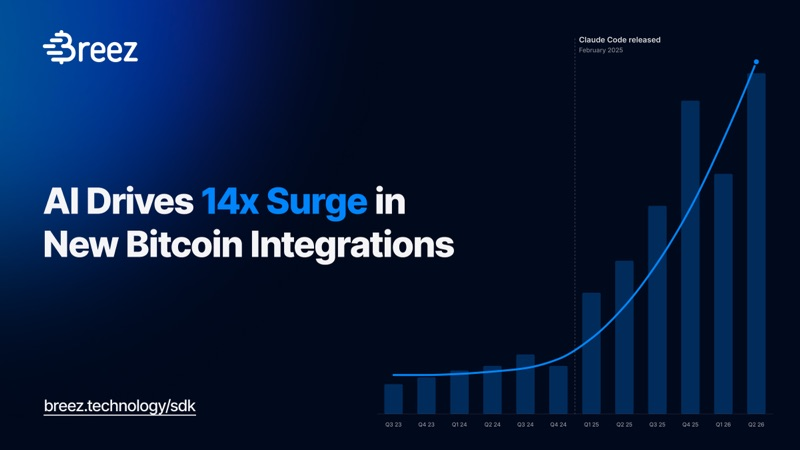
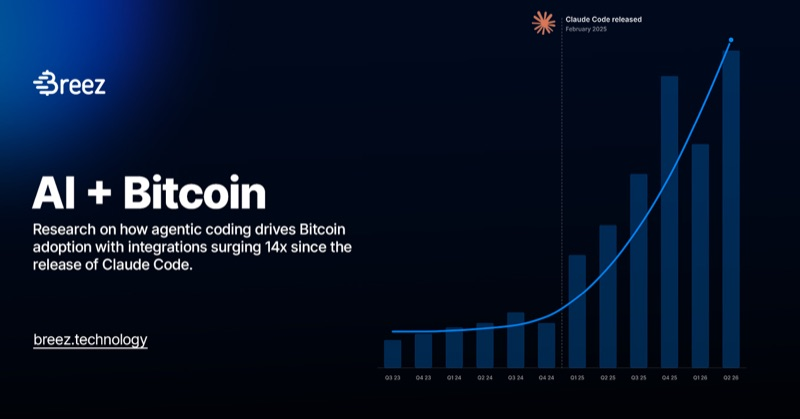
Research: launch switch, meta description, new thumbnail

diff --git a/src/views/pages/report/research.html b/src/views/pages/report/research.html
@@ -37,12 +37,12 @@
             "url": "https://breez.technology"
       },
       "hasPart": [
-            {
+<% if (researchLive) { %>            {
                   "@type": "Article",
                   "headline": "AI Drives 14x Surge in New Bitcoin Integrations",
                   "url": "https://breez.technology/report/agentic-coding/"
             },
-            {
+<% } %>            {
                   "@type": "Article",
                   "headline": "Bitcoin Payments: From Digital Gold to Everyday Currency",
                   "url": "https://breez.technology/report/bitcoin-payments/"
@@ -115,6 +115,11 @@
                         <li class="header-links my-2 my-lg-0">
                             <a href="/vision" class="text-decoration-none">Vision</a>
                         </li>
+                        <% if (researchLive) { %>
+                        <li class="header-links my-2 my-lg-0">
+                            <a href="/report" class="text-decoration-none">Research</a>
+                        </li>
+                        <% } %>
                         <li class="header-links my-2 my-lg-0">
                             <a href="https://blog.breez.technology" target="_blank" rel="noopener" class="text-decoration-none">Blog</a>
                         </li>
@@ -147,9 +152,10 @@
                 </div>
 
                 <div class="col-12 col-lg-7 d-flex align-items-start justify-content-lg-end">
+                    <% if (researchLive) { %>
                     <!-- The chart's empty upper left carries the card text, so the card stays square. -->
                     <a href="/report/agentic-coding" class="research-feature text-decoration-none" data-aos="fade-up" data-aos-duration="900">
-                        <img src="../../../assets/images/research/agentic-coding-chart.png" width="2000" height="2000" class="research-feature-img"
+                        <img src="../../../assets/images/research/agentic-coding-chart.png" width="2000" height="1900" class="research-feature-img"
                             alt="Bar chart of new bitcoin integration requests to Breez by quarter, flat through 2023 and 2024, rising sharply from the release of Claude Code in February 2025.">
                         <div class="research-feature-body">
                             <div class="research-tags">
@@ -159,12 +165,27 @@
                             <span class="research-link">Read more <img src="../../../assets/icons/arrow-right-icon.svg" alt="" aria-hidden="true"></span>
                         </div>
                     </a>
+                    <% } else { %>
+                    <!-- Before launch the featured card is the Bitcoin Payments report. -->
+                    <a href="/report/bitcoin-payments" class="research-feature research-feature--stacked text-decoration-none" data-aos="fade-up" data-aos-duration="900">
+                        <img src="../../../assets/images/open-graph-report.png" width="2480" height="1395" class="research-feature-img"
+                            alt="Bitcoin Payments: From Digital Gold to Everyday Currency, a report by Breez and 1A1z">
+                        <div class="research-feature-body">
+                            <div class="research-tags">
+                                <span class="research-date">February 2024</span>
+                            </div>
+                            <h2 class="research-feature-title">Bitcoin Payments: From Digital Gold to Everyday Currency</h2>
+                            <span class="research-link">Read more <img src="../../../assets/icons/arrow-right-icon.svg" alt="" aria-hidden="true"></span>
+                        </div>
+                    </a>
+                    <% } %>
                 </div>
             </div>
 
             <div class="research-archive">
                 <h2 class="research-archive-title">All Research</h2>
 
+                <% if (researchLive) { %>
                 <article class="research-row">
                     <a href="/report/agentic-coding" class="research-row-media">
                         <img src="../../../assets/images/research/agentic-coding-thumb.jpg" alt="" loading="lazy">
@@ -178,6 +199,7 @@
                         <a href="/report/agentic-coding" class="research-link">Read more <img src="../../../assets/icons/arrow-right-icon.svg" alt="" aria-hidden="true"></a>
                     </div>
                 </article>
+                <% } %>
 
                 <article class="research-row">
                     <a href="/report/bitcoin-payments" class="research-row-media">

diff --git a/src/views/pages/report/agentic-coding.html b/src/views/pages/report/agentic-coding.html
@@ -6,14 +6,13 @@
     <meta name="viewport"
         content="width=device-width, user-scalable=no, initial-scale=1.0, maximum-scale=1.0, minimum-scale=1.0">
     <meta http-equiv="X-UA-Compatible" content="ie=edge">
-    <!-- Embargoed: remove this noindex at go-live, 24 Sept 2026 9:00am ET. -->
-    <meta name="robots" content="noindex, nofollow">
+    <% if (!researchLive) { %><meta name="robots" content="noindex, nofollow"><% } %>
     <title>AI Drives 14x Surge in New Bitcoin Integrations | Breez Research</title>
-    <meta name="description" content="AI has transformed how software gets built, with bitcoin at the center: Breez reports that new bitcoin integrations have surged 14x in the agentic coding era, with record demand for everything from crypto wallets, exchanges and swap services to messengers, games, and social apps.">
+    <meta name="description" content="Research on how agentic coding drives bitcoin adoption, with integrations surging 14x since the release of Claude Code.">
     <meta property="og:image" content="../../../assets/images/research/og-agentic-coding.png" />
     <meta property="og:title" content="AI Drives 14x Surge in New Bitcoin Integrations | Breez Research" />
     <meta property="og:description"
-        content="AI has transformed how software gets built, with bitcoin at the center: Breez reports that new bitcoin integrations have surged 14x in the agentic coding era, with record demand for everything from crypto wallets, exchanges and swap services to messengers, games, and social apps.">
+        content="Research on how agentic coding drives bitcoin adoption, with integrations surging 14x since the release of Claude Code.">
     <meta property="og:image:width" content="1200" />
     <meta property="og:image:height" content="675" />
     <meta property="og:type" content="article" />
@@ -22,7 +21,7 @@
     <meta name="twitter:creator" content="@Breez_Tech" />
     <meta name="twitter:title" content="AI Drives 14x Surge in New Bitcoin Integrations | Breez Research" />
     <meta name="twitter:description"
-        content="AI has transformed how software gets built, with bitcoin at the center: Breez reports that new bitcoin integrations have surged 14x in the agentic coding era, with record demand for everything from crypto wallets, exchanges and swap services to messengers, games, and social apps." />
+        content="Research on how agentic coding drives bitcoin adoption, with integrations surging 14x since the release of Claude Code." />
     <meta name="twitter:image" content="../../../assets/images/research/og-agentic-coding.png" />
     <meta property="og:url" content="https://breez.technology/report/agentic-coding" />
     <link rel="preconnect" href="https://fonts.googleapis.com">
@@ -37,7 +36,7 @@
       "url": "https://breez.technology/report/agentic-coding",
       "mainEntityOfPage": "https://breez.technology/report/agentic-coding",
       "datePublished": "2026-09-24T09:00:00-04:00",
-      "description": "AI has transformed how software gets built, with bitcoin at the center: Breez reports that new bitcoin integrations have surged 14x in the agentic coding era, with record demand for everything from crypto wallets, exchanges and swap services to messengers, games, and social apps.",
+      "description": "Research on how agentic coding drives bitcoin adoption, with integrations surging 14x since the release of Claude Code.",
       "author": {
             "@type": "Person",
             "name": "Danny Stagg",
@@ -128,6 +127,11 @@
                         <li class="header-links my-2 my-lg-0">
                             <a href="/vision" class="text-decoration-none">Vision</a>
                         </li>
+                        <% if (researchLive) { %>
+                        <li class="header-links my-2 my-lg-0">
+                            <a href="/report" class="text-decoration-none">Research</a>
+                        </li>
+                        <% } %>
                         <li class="header-links my-2 my-lg-0">
                             <a href="https://blog.breez.technology" target="_blank" rel="noopener" class="text-decoration-none">Blog</a>
                         </li>

diff --git a/src/views/pages/use-cases/igaming.html b/src/views/pages/use-cases/igaming.html
@@ -106,6 +106,7 @@
                     <li class="header-links my-2 my-lg-0"><a href="/glow" class="text-decoration-none">Glow</a></li>
                     <li class="header-links my-2 my-lg-0"><a href="/igaming" class="text-decoration-none">iGaming</a></li>
                     <li class="header-links my-2 my-lg-0"><a href="/vision" class="text-decoration-none">Vision</a></li>
+                    <% if (researchLive) { %><li class="header-links my-2 my-lg-0"><a href="/report" class="text-decoration-none">Research</a></li><% } %>
                     <li class="header-links my-2 my-lg-0"><a href="https://blog.breez.technology" target="_blank" rel="noopener" class="text-decoration-none">Blog</a></li>
                 </ul>
             </div>

diff --git a/src/index.html b/src/index.html
@@ -229,6 +229,11 @@
                         <li class="header-links my-2 my-lg-0">
                             <a href="/vision" class="text-decoration-none">Vision</a>
                         </li>
+                        <% if (researchLive) { %>
+                        <li class="header-links my-2 my-lg-0">
+                            <a href="/report" class="text-decoration-none">Research</a>
+                        </li>
+                        <% } %>
                         <li class="header-links my-2 my-lg-0">
                             <a href="https://blog.breez.technology" target="_blank" rel="noopener" class="text-decoration-none">Blog</a>
                         </li>

diff --git a/src/views/pages/report/bitcoin-payments.html b/src/views/pages/report/bitcoin-payments.html
@@ -120,6 +120,11 @@
                         <li class="header-links my-2 my-lg-0">
                             <a href="/vision" class="text-decoration-none">Vision</a>
                         </li>
+                        <% if (researchLive) { %>
+                        <li class="header-links my-2 my-lg-0">
+                            <a href="/report" class="text-decoration-none">Research</a>
+                        </li>
+                        <% } %>
                         <li class="header-links my-2 my-lg-0">
                             <a href="https://blog.breez.technology" target="_blank" rel="noopener" class="text-decoration-none">Blog</a>
                         </li>

diff --git a/src/views/pages/sdk/sdk.html b/src/views/pages/sdk/sdk.html
@@ -113,6 +113,11 @@
                         <li class="header-links my-2 my-lg-0">
                             <a href="/vision" class="text-decoration-none">Vision</a>
                         </li>
+                        <% if (researchLive) { %>
+                        <li class="header-links my-2 my-lg-0">
+                            <a href="/report" class="text-decoration-none">Research</a>
+                        </li>
+                        <% } %>
                         <li class="header-links my-2 my-lg-0">
                             <a href="https://blog.breez.technology" target="_blank" rel="noopener" class="text-decoration-none">Blog</a>
                         </li>

diff --git a/src/views/pages/spark/spark.html b/src/views/pages/spark/spark.html
@@ -298,6 +298,11 @@
                         <li class="header-links my-2 my-lg-0">
                             <a href="/vision" class="text-decoration-none">Vision</a>
                         </li>
+                        <% if (researchLive) { %>
+                        <li class="header-links my-2 my-lg-0">
+                            <a href="/report" class="text-decoration-none">Research</a>
+                        </li>
+                        <% } %>
                         <li class="header-links my-2 my-lg-0">
                             <a href="https://blog.breez.technology" target="_blank" rel="noopener" class="text-decoration-none">Blog</a>
                         </li>

diff --git a/src/views/pages/vision/vision.html b/src/views/pages/vision/vision.html
@@ -267,6 +267,11 @@
                         <li class="header-links my-2 my-lg-0">
                             <a href="/vision" class="text-decoration-none">Vision</a>
                         </li>
+                        <% if (researchLive) { %>
+                        <li class="header-links my-2 my-lg-0">
+                            <a href="/report" class="text-decoration-none">Research</a>
+                        </li>
+                        <% } %>
                         <li class="header-links my-2 my-lg-0">
                             <a href="https://blog.breez.technology" target="_blank" rel="noopener" class="text-decoration-none">Blog</a>
                         </li>

diff --git a/src/views/pages/lsp/lsp.html b/src/views/pages/lsp/lsp.html
@@ -72,6 +72,11 @@
                         <li class="header-links my-2 my-lg-0">
                             <a href="/vision" class="text-decoration-none">Vision</a>
                         </li>
+                        <% if (researchLive) { %>
+                        <li class="header-links my-2 my-lg-0">
+                            <a href="/report" class="text-decoration-none">Research</a>
+                        </li>
+                        <% } %>
                         <li class="header-links my-2 my-lg-0">
                             <a href="https://blog.breez.technology" target="_blank" rel="noopener" class="text-decoration-none">Blog</a>
                         </li>

diff --git a/src/views/pages/misty/misty.html b/src/views/pages/misty/misty.html
@@ -69,6 +69,11 @@
                         <li class="header-links my-2 my-lg-0">
                             <a href="/vision" class="text-decoration-none">Vision</a>
                         </li>
+                        <% if (researchLive) { %>
+                        <li class="header-links my-2 my-lg-0">
+                            <a href="/report" class="text-decoration-none">Research</a>
+                        </li>
+                        <% } %>
                         <li class="header-links my-2 my-lg-0">
                             <a href="https://blog.breez.technology" target="_blank" rel="noopener" class="text-decoration-none">Blog</a>
                         </li>

diff --git a/src/views/pages/mobile/mobile.html b/src/views/pages/mobile/mobile.html
@@ -71,6 +71,11 @@
                         <li class="header-links my-2 my-lg-0">
                             <a href="/vision" class="text-decoration-none">Vision</a>
                         </li>
+                        <% if (researchLive) { %>
+                        <li class="header-links my-2 my-lg-0">
+                            <a href="/report" class="text-decoration-none">Research</a>
+                        </li>
+                        <% } %>
                         <li class="header-links my-2 my-lg-0">
                             <a href="https://blog.breez.technology" target="_blank" rel="noopener" class="text-decoration-none">Blog</a>
                         </li>

diff --git a/src/views/pages/case-studies/_TEMPLATE-case-study.html b/src/views/pages/case-studies/_TEMPLATE-case-study.html
@@ -109,6 +109,11 @@
                     <li class="header-links my-2 my-lg-0">
                         <a href="/vision" class="text-decoration-none">Vision</a>
                     </li>
+                    <% if (researchLive) { %>
+                    <li class="header-links my-2 my-lg-0">
+                        <a href="/report" class="text-decoration-none">Research</a>
+                    </li>
+                    <% } %>
                     <li class="header-links my-2 my-lg-0">
                         <a href="https://blog.breez.technology" target="_blank" rel="noopener" class="text-decoration-none">Blog</a>
                     </li>
